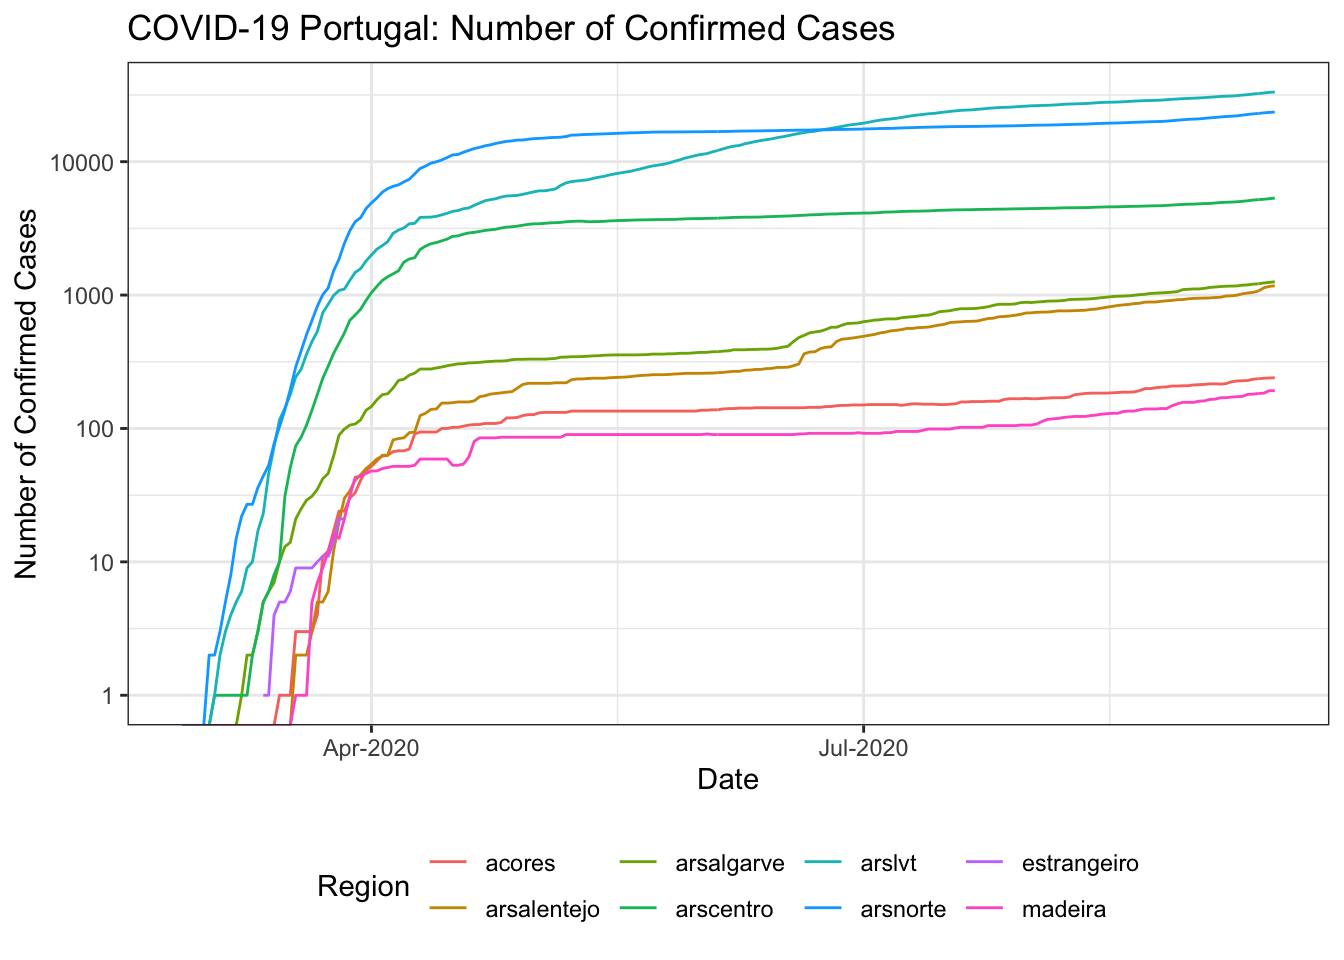
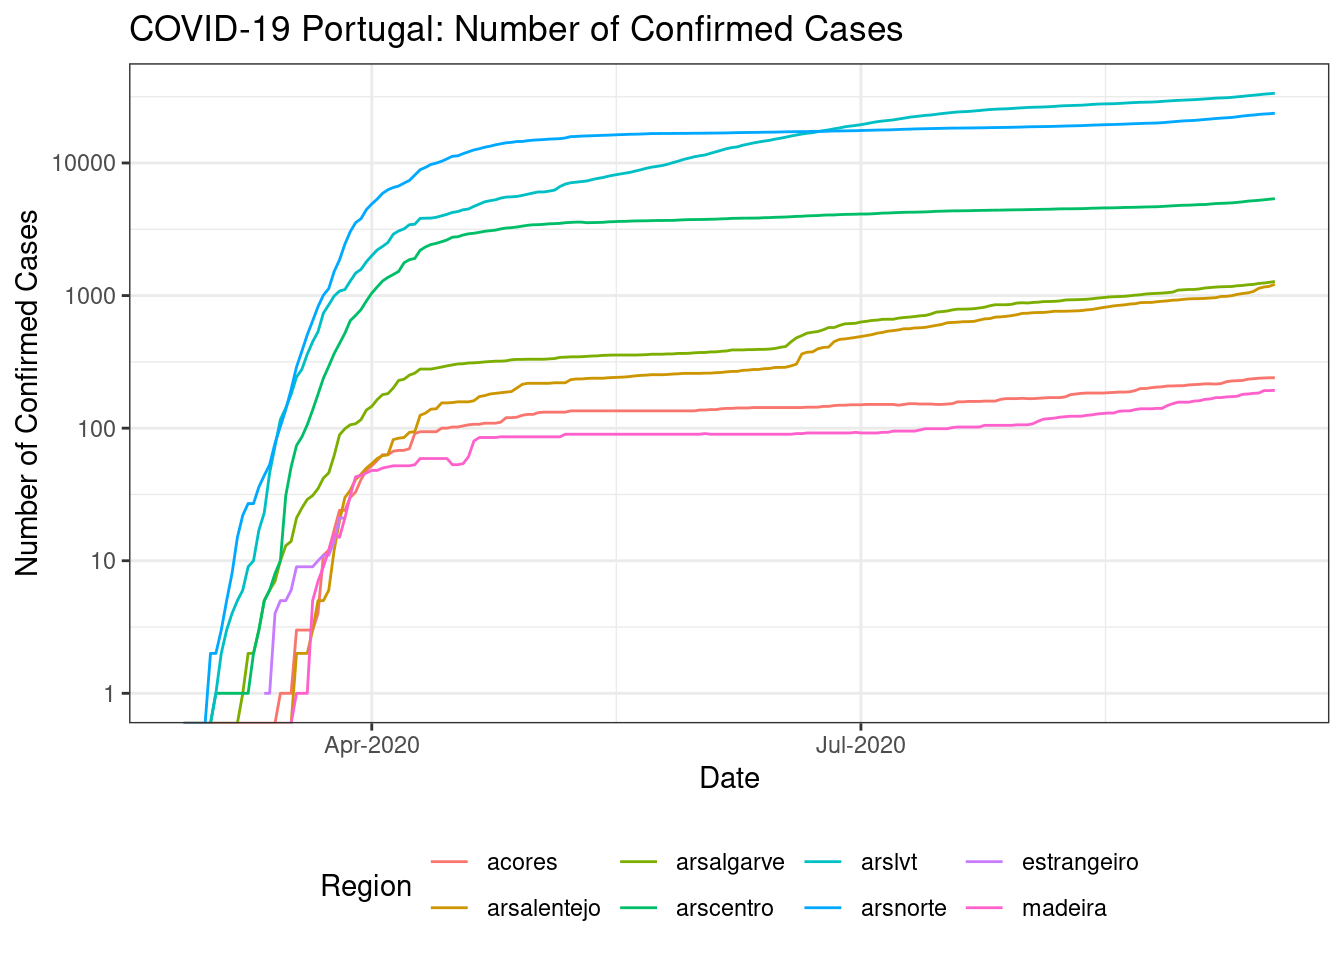
Manual update due to delay in source data update

diff --git a/README.md b/README.md
@@ -4,9 +4,9 @@ README](https://github.com/CEAUL/Dados_COVID-19_PT/workflows/Render%20README/bad
 
 ## Daily Portuguese COVID-19 Data
 
-**Last updated: Wed 16 Sep 2020 (15:26:22 UTC \[+0000\])**
+**Last updated: Wed 16 Sep 2020 (17:34:20 WEST \[+0100\])**
 
-  - Data available from **26 Feb 2020** until **15 Sep 2020** (203
+  - Data available from **26 Feb 2020** until **16 Sep 2020** (204
     days).
 
 ### Download User Friendly Version
@@ -47,7 +47,6 @@ The original data were downloaded from an API provide by VOST
 
 |            Date | Cases\_7\_Day\_Mean |        Cases |       Active |    Recovered |    Deaths |
 | --------------: | ------------------: | -----------: | -----------: | -----------: | --------: |
-| Sun 06 Sep 2020 |               355.7 | 60258 (+315) | 15465 (+153) | 42953 (+160) | 1840 (+2) |
 | Mon 07 Sep 2020 |               356.4 | 60507 (+249) | 15648 (+183) |  43016 (+63) | 1843 (+3) |
 | Tue 08 Sep 2020 |               378.9 | 60895 (+388) | 15903 (+255) | 43146 (+130) | 1846 (+3) |
 | Wed 09 Sep 2020 |               415.4 | 61541 (+646) | 16408 (+505) | 43284 (+138) | 1849 (+3) |
@@ -57,6 +56,7 @@ The original data were downloaded from an API provide by VOST
 | Sun 13 Sep 2020 |               532.1 | 63983 (+673) | 18047 (+491) | 44069 (+175) | 1867 (+7) |
 | Mon 14 Sep 2020 |               584.1 | 64596 (+613) | 18540 (+493) | 44185 (+116) | 1871 (+4) |
 | Tue 15 Sep 2020 |               589.4 | 65021 (+425) | 18784 (+244) | 44362 (+177) | 1875 (+4) |
+| Wed 16 Sep 2020 |               583.6 | 65626 (+605) | 19220 (+436) | 44528 (+166) | 1878 (+3) |
 
 Change from previous day in brackets.
 
@@ -79,19 +79,19 @@ CV <- fread(here("data", "covid19pt_DSSG_Long.csv"))
 # Looking at the data:
 tail(CV)
 ##          data   origVars   origType other symptoms sex ageGrpLower ageGrpUpper
-## 1: 2020-09-10 vigilancia vigilancia                All                        
-## 2: 2020-09-11 vigilancia vigilancia                All                        
-## 3: 2020-09-12 vigilancia vigilancia                All                        
-## 4: 2020-09-13 vigilancia vigilancia                All                        
-## 5: 2020-09-14 vigilancia vigilancia                All                        
-## 6: 2020-09-15 vigilancia vigilancia                All                        
+## 1: 2020-09-11 vigilancia vigilancia                All                        
+## 2: 2020-09-12 vigilancia vigilancia                All                        
+## 3: 2020-09-13 vigilancia vigilancia                All                        
+## 4: 2020-09-14 vigilancia vigilancia                All                        
+## 5: 2020-09-15 vigilancia vigilancia                All                        
+## 6: 2020-09-16 vigilancia vigilancia                All                        
 ##    ageGrp   region value valueUnits
-## 1:        Portugal 35181      Count
-## 2:        Portugal 35712      Count
-## 3:        Portugal 36055      Count
-## 4:        Portugal 36398      Count
-## 5:        Portugal 36758      Count
-## 6:        Portugal 36955      Count
+## 1:        Portugal 35712      Count
+## 2:        Portugal 36055      Count
+## 3:        Portugal 36398      Count
+## 4:        Portugal 36758      Count
+## 5:        Portugal 36955      Count
+## 6:        Portugal 37287      Count
 
 # Order data by original variable name and date.
 setkeyv(CV, c("origVars", "data"))
@@ -141,7 +141,7 @@ CV[origType=="confirmados" & ageGrp=="" & region!="Portugal"] %>%
     y = "Number of Confirmed Cases",
     colour = "Region")
 ## Warning: Transformation introduced infinite values in continuous y-axis
-## Warning: Removed 187 row(s) containing missing values (geom_path).
+## Warning: Removed 188 row(s) containing missing values (geom_path).
 ```
 
 <img src="README_figs/README-casesbyRegion-1.png" width="672" />
